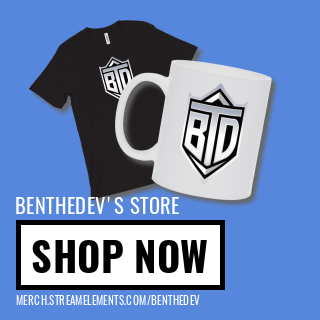
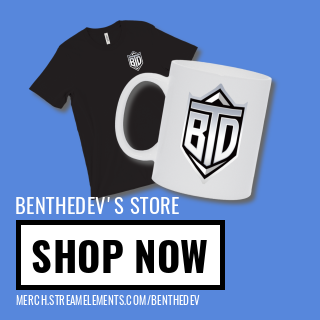
added capocrimini and updated merch image

Changed region(s): [[0.3125, 0.1562, 0.4688, 0.3125]]

diff --git a/index.html b/index.html
@@ -131,7 +131,7 @@
                             <div class="col-lg-8 mx-auto">
                                 <h2 class="text-uppercase text-secondary mb-0">Adaptive Football Coaching</h2>
                                 <hr class="star-dark mb-5"><img class="img-fluid mb-5" src="assets/img/portfolio/AFCSocials.jpg">
-                                <p class="mb-5">A website that promotes teaching people how to play football in a simple and fun way.</p>
+                                <p class="mb-5">A website that promotes teaching people how to play football in a simple and fun way.(Currently undergoing a rebrand)</p>
                                 <div class="modal-footer pb-5"><a class="btn btn-primary btn-lg mx-auto rounded-pill portfolio-modal-dismiss" role="button" href="https://adaptivefootballcoaching.ie">Go to Adaptive Football Coaching</a></div>
                             </div>
                         </div>
@@ -150,8 +150,8 @@
                             <div class="col-lg-8 mx-auto">
                                 <h2 class="text-uppercase text-secondary mb-0">DCU Student Bot</h2>
                                 <hr class="star-dark mb-5"><img class="img-fluid mb-5" src="assets/img/portfolio/studentBotLogo.jpg">
-                                <p class="mb-5">A 3rd year graded project that aims to make new,visiting or existing students life less repetitive. Additionally, with the aid of Natural Language Processing, the bot will converse with the user in their native language.</p>
-                                <div class="modal-footer pb-5"><a class="btn btn-primary btn-lg mx-auto rounded-pill portfolio-modal-dismiss" role="button" href="https://dcustudentbot.netlify.com">Visit the project page</a></div>
+                                <p class="mb-5">A 3rd year graded project that aims to make new,visiting or existing students life less repetitive. Additionally, with the aid of Natural Language Processing, the bot will converse with the user in their native language.(Currently being reconstructed for a Final Year University Project)</p>
+                                <div class="modal-footer pb-5"><a class="btn btn-primary btn-lg mx-auto rounded-pill portfolio-modal-dismiss" role="button">Under Construction</a></div>
                             </div>
                         </div>
                     </div>
@@ -169,7 +169,7 @@
                             <div class="col-lg-8 mx-auto">
                                 <h2 class="text-uppercase text-secondary mb-0">My Github Repos</h2>
                                 <hr class="star-dark mb-5"><img class="img-fluid mb-5" src="assets/img/portfolio/GitHub-Mark.png">
-                                <p class="mb-5">Github is where i keep all my little projects such as bash scripts, websites and other projects that I am yet to finish.</p>
+                                <p class="mb-5">Github is where i keep all my little projects such as bash scripts, websites and other projects that I am Currently working on or finished. If you would like a tour of my private repos such as University work or personal projects that contain sensitive info, Please contact me via the red chat button.</p>
                                 <div class="modal-footer pb-5"><a class="btn btn-primary btn-lg mx-auto rounded-pill portfolio-modal-dismiss" role="button" href="https://github.com/benji2512">Visit my Github page</a></div>
                             </div>
                         </div>
@@ -177,6 +177,24 @@
                 </div>
             </div>
         </div>
+        <div class="modal text-center" role="dialog" tabindex="-1" id="portfolio-modal-3">
+            <div class="modal-dialog modal-lg" role="document">
+                <div class="modal-content">
+                    <div class="modal-header"><button type="button" class="close" data-dismiss="modal" aria-label="Close"><span aria-hidden="true">×</span></button></div>
+                    <div class="modal-body">
+                        <div class="container text-center">
+                            <div class="row">
+                                <div class="col-lg-8 mx-auto">
+                                    <h2 class="text-uppercase text-secondary mb-0">Capo Crimini Merchandise</h2>
+                                    <hr class="star-dark mb-5"><img class="img-fluid mb-5" src="assets/img/portfolio/Capo Crimini.png">
+                                    <p class="mb-5">A website for Twitch Streamer Jaffainc for his first ever merchandise drop for his fans.</p>
+                                    <div class="modal-footer pb-5"><a class="btn btn-primary btn-lg mx-auto rounded-pill portfolio-modal-dismiss" role="button" href="https://capocrimini.com">Visit capocrimini.com</a></div>
+                                </div>
+                            </div>
+                        </div>
+                    </div>
+                </div>
+            </div>
     </div>
     <script src="assets/js/jquery.min.js"></script>
     <script src="assets/bootstrap/js/bootstrap.min.js"></script>
